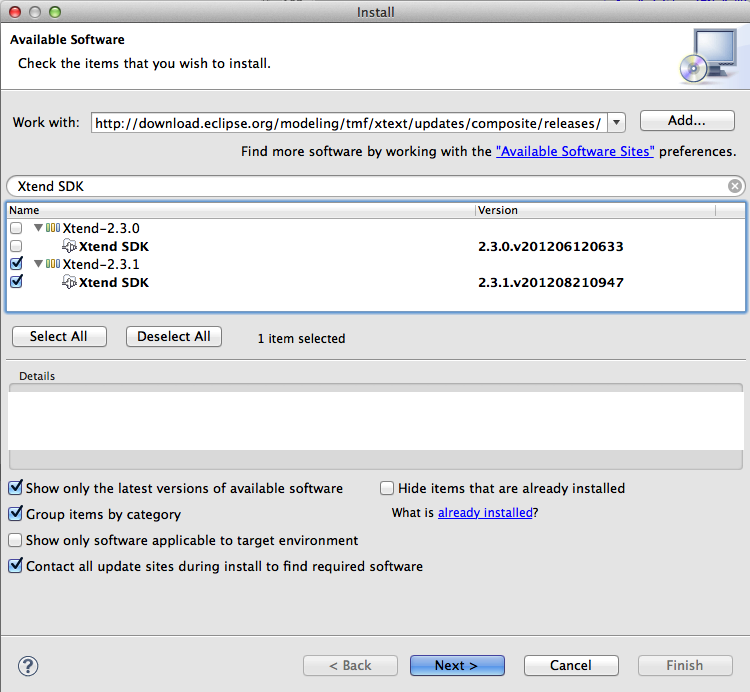
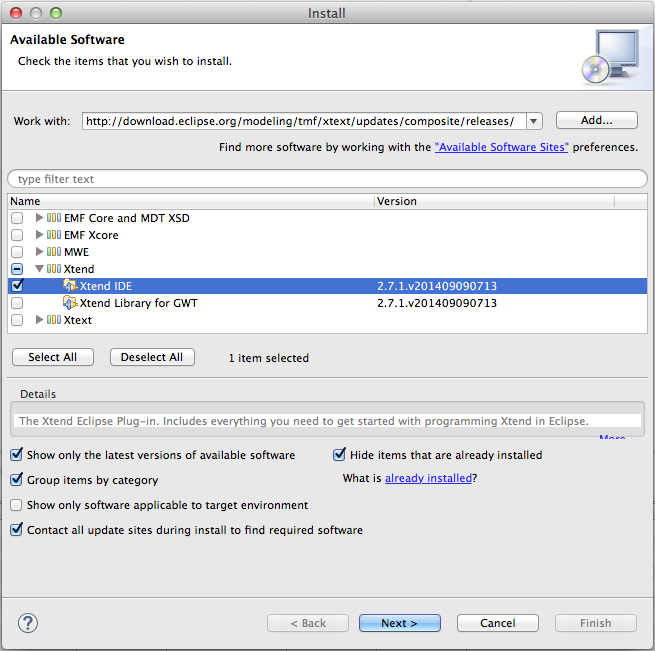
[website / doc] fixed outdated version references, updated installation screenshot

Changed region(s): [[0.0, 0.0, 1.0, 1.0]]

diff --git a/xtend.website.generator/website/documentation.html b/xtend.website.generator/website/documentation.html
@@ -3424,7 +3424,7 @@ node Parent{
 							of such patterns in a library and let the compiler do the heavy lifting for you.
 						</p>
 						<p>
-							An <strong>Active Annotation</strong> is just an annotation declared either in Java or Xtend, which is itself annotated with <a href="http://www.eclipse.org/xtend/api/2.7.0/org/eclipse/xtend/lib/macro/Active.html"><abbr title="org.eclipse.xtend.lib.macro.Active">@Active</abbr></a> <a href="https://github.com/eclipse/xtext/blob/v2.7.0/plugins/org.eclipse.xtend.lib/src/org/eclipse/xtend/lib/macro/Active.java">(src)</a>.
+							An <strong>Active Annotation</strong> is just an annotation declared either in Java or Xtend, which is itself annotated with <a href="http://www.eclipse.org/xtend/api/2.7.0/org/eclipse/xtend/lib/macro/Active.html"><abbr title="org.eclipse.xtend.lib.macro.Active">@Active</abbr></a> <a href="https://github.com/eclipse/xtext/blob/v2.7.0/plugins/org.eclipse.xtend.lib.macro/src/org/eclipse/xtend/lib/macro/Active.java">(src)</a>.
 							<code class="prettyprint lang-xtend">@Active</code> takes a type literal as a parameter pointing to the processor.
 						</p>
 						<p>
@@ -3451,10 +3451,10 @@ annotation Extract {}</pre>
 							This interfaces are:
 							</p>
 							<ul>
-								<li><a href="http://www.eclipse.org/xtend/api/2.7.0/org/eclipse/xtend/lib/macro/RegisterGlobalsParticipant.html"><abbr title="org.eclipse.xtend.lib.macro.RegisterGlobalsParticipant">RegisterGlobalsParticipant</abbr></a> <a href="https://github.com/eclipse/xtext/blob/v2.7.0/plugins/org.eclipse.xtend.lib/src/org/eclipse/xtend/lib/macro/RegisterGlobalsParticipant.java">(src)</a> The first call back. Only called to register type names when a global symbol table (i.e. index) is created. See <a href="#active_annotations_register_globals"></a></li>
-								<li><a href="http://www.eclipse.org/xtend/api/2.7.0/org/eclipse/xtend/lib/macro/TransformationParticipant.html"><abbr title="org.eclipse.xtend.lib.macro.TransformationParticipant">TransformationParticipant</abbr></a> <a href="https://github.com/eclipse/xtext/blob/v2.7.0/plugins/org.eclipse.xtend.lib/src/org/eclipse/xtend/lib/macro/TransformationParticipant.java">(src)</a> This callback is often the most useful, as it allows to alter the translated Java structure by e.g. adding, removing or altering members See <a href="#active_annotations_transformation_phase"></a></li>
-								<li><a href="http://www.eclipse.org/xtend/api/2.7.0/org/eclipse/xtend/lib/macro/ValidationParticipant.html"><abbr title="org.eclipse.xtend.lib.macro.ValidationParticipant">ValidationParticipant</abbr></a> <a href="https://github.com/eclipse/xtext/blob/v2.7.0/plugins/org.eclipse.xtend.lib/src/org/eclipse/xtend/lib/macro/ValidationParticipant.java">(src)</a> Although you can already do validation during transformation, you are only during this callback allowed to fully resolve any types. See <a href="#active_annotations_validation_phase"></a></li>
-								<li><a href="http://www.eclipse.org/xtend/api/2.7.0/org/eclipse/xtend/lib/macro/CodeGenerationParticipant.html"><abbr title="org.eclipse.xtend.lib.macro.CodeGenerationParticipant">CodeGenerationParticipant</abbr></a> <a href="https://github.com/eclipse/xtext/blob/v2.7.0/plugins/org.eclipse.xtend.lib/src/org/eclipse/xtend/lib/macro/CodeGenerationParticipant.java">(src)</a> If you want to generate some additional text, e.g. XML, this hook is for you. See <a href="#active_annotations_code_generation"></a></li>
+								<li><a href="http://www.eclipse.org/xtend/api/2.7.0/org/eclipse/xtend/lib/macro/RegisterGlobalsParticipant.html"><abbr title="org.eclipse.xtend.lib.macro.RegisterGlobalsParticipant">RegisterGlobalsParticipant</abbr></a> <a href="https://github.com/eclipse/xtext/blob/v2.7.0/plugins/org.eclipse.xtend.lib.macro/src/org/eclipse/xtend/lib/macro/RegisterGlobalsParticipant.java">(src)</a> The first call back. Only called to register type names when a global symbol table (i.e. index) is created. See <a href="#active_annotations_register_globals"></a></li>
+								<li><a href="http://www.eclipse.org/xtend/api/2.7.0/org/eclipse/xtend/lib/macro/TransformationParticipant.html"><abbr title="org.eclipse.xtend.lib.macro.TransformationParticipant">TransformationParticipant</abbr></a> <a href="https://github.com/eclipse/xtext/blob/v2.7.0/plugins/org.eclipse.xtend.lib.macro/src/org/eclipse/xtend/lib/macro/TransformationParticipant.java">(src)</a> This callback is often the most useful, as it allows to alter the translated Java structure by e.g. adding, removing or altering members See <a href="#active_annotations_transformation_phase"></a></li>
+								<li><a href="http://www.eclipse.org/xtend/api/2.7.0/org/eclipse/xtend/lib/macro/ValidationParticipant.html"><abbr title="org.eclipse.xtend.lib.macro.ValidationParticipant">ValidationParticipant</abbr></a> <a href="https://github.com/eclipse/xtext/blob/v2.7.0/plugins/org.eclipse.xtend.lib.macro/src/org/eclipse/xtend/lib/macro/ValidationParticipant.java">(src)</a> Although you can already do validation during transformation, you are only during this callback allowed to fully resolve any types. See <a href="#active_annotations_validation_phase"></a></li>
+								<li><a href="http://www.eclipse.org/xtend/api/2.7.0/org/eclipse/xtend/lib/macro/CodeGenerationParticipant.html"><abbr title="org.eclipse.xtend.lib.macro.CodeGenerationParticipant">CodeGenerationParticipant</abbr></a> <a href="https://github.com/eclipse/xtext/blob/v2.7.0/plugins/org.eclipse.xtend.lib.macro/src/org/eclipse/xtend/lib/macro/CodeGenerationParticipant.java">(src)</a> If you want to generate some additional text, e.g. XML, this hook is for you. See <a href="#active_annotations_code_generation"></a></li>
 							</ul>
 							<p>
 						</p>
@@ -3462,25 +3462,25 @@ annotation Extract {}</pre>
 							There are base classes that implment all callback interfaces. You should subclass one of those depending on your annotation target:
 							</p>
 							<ul>
-								<li><a href="http://www.eclipse.org/xtend/api/2.7.0/org/eclipse/xtend/lib/macro/AbstractClassProcessor.html"><abbr title="org.eclipse.xtend.lib.macro.AbstractClassProcessor">AbstractClassProcessor</abbr></a> <a href="https://github.com/eclipse/xtext/blob/v2.7.0/plugins/org.eclipse.xtend.lib/src/org/eclipse/xtend/lib/macro/AbstractClassProcessor.java">(src)</a> is a base class for class annotations</li>
-								<li><a href="http://www.eclipse.org/xtend/api/2.7.0/org/eclipse/xtend/lib/macro/AbstractInterfaceProcessor.html"><abbr title="org.eclipse.xtend.lib.macro.AbstractInterfaceProcessor">AbstractInterfaceProcessor</abbr></a> <a href="https://github.com/eclipse/xtext/blob/v2.7.0/plugins/org.eclipse.xtend.lib/src/org/eclipse/xtend/lib/macro/AbstractInterfaceProcessor.java">(src)</a> is a base class for interface annotations</li>
-								<li><a href="http://www.eclipse.org/xtend/api/2.7.0/org/eclipse/xtend/lib/macro/AbstractAnnotationTypeProcessor.html"><abbr title="org.eclipse.xtend.lib.macro.AbstractAnnotationTypeProcessor">AbstractAnnotationTypeProcessor</abbr></a> <a href="https://github.com/eclipse/xtext/blob/v2.7.0/plugins/org.eclipse.xtend.lib/src/org/eclipse/xtend/lib/macro/AbstractAnnotationTypeProcessor.java">(src)</a> is a base class for annotation type annotations</li>
-								<li><a href="http://www.eclipse.org/xtend/api/2.7.0/org/eclipse/xtend/lib/macro/AbstractEnumerationTypeProcessor.html"><abbr title="org.eclipse.xtend.lib.macro.AbstractEnumerationTypeProcessor">AbstractEnumerationTypeProcessor</abbr></a> <a href="https://github.com/eclipse/xtext/blob/v2.7.0/plugins/org.eclipse.xtend.lib/src/org/eclipse/xtend/lib/macro/AbstractEnumerationTypeProcessor.java">(src)</a> is a base class for enumeration type annotations</li>
-								<li><a href="http://www.eclipse.org/xtend/api/2.7.0/org/eclipse/xtend/lib/macro/AbstractMethodProcessor.html"><abbr title="org.eclipse.xtend.lib.macro.AbstractMethodProcessor">AbstractMethodProcessor</abbr></a> <a href="https://github.com/eclipse/xtext/blob/v2.7.0/plugins/org.eclipse.xtend.lib/src/org/eclipse/xtend/lib/macro/AbstractMethodProcessor.java">(src)</a> is a base class for method annotations</li>
-								<li><a href="http://www.eclipse.org/xtend/api/2.7.0/org/eclipse/xtend/lib/macro/AbstractFieldProcessor.html"><abbr title="org.eclipse.xtend.lib.macro.AbstractFieldProcessor">AbstractFieldProcessor</abbr></a> <a href="https://github.com/eclipse/xtext/blob/v2.7.0/plugins/org.eclipse.xtend.lib/src/org/eclipse/xtend/lib/macro/AbstractFieldProcessor.java">(src)</a> is a base class for field annotations</li>
+								<li><a href="http://www.eclipse.org/xtend/api/2.7.0/org/eclipse/xtend/lib/macro/AbstractClassProcessor.html"><abbr title="org.eclipse.xtend.lib.macro.AbstractClassProcessor">AbstractClassProcessor</abbr></a> <a href="https://github.com/eclipse/xtext/blob/v2.7.0/plugins/org.eclipse.xtend.lib.macro/src/org/eclipse/xtend/lib/macro/AbstractClassProcessor.java">(src)</a> is a base class for class annotations</li>
+								<li><a href="http://www.eclipse.org/xtend/api/2.7.0/org/eclipse/xtend/lib/macro/AbstractInterfaceProcessor.html"><abbr title="org.eclipse.xtend.lib.macro.AbstractInterfaceProcessor">AbstractInterfaceProcessor</abbr></a> <a href="https://github.com/eclipse/xtext/blob/v2.7.0/plugins/org.eclipse.xtend.lib.macro/src/org/eclipse/xtend/lib/macro/AbstractInterfaceProcessor.java">(src)</a> is a base class for interface annotations</li>
+								<li><a href="http://www.eclipse.org/xtend/api/2.7.0/org/eclipse/xtend/lib/macro/AbstractAnnotationTypeProcessor.html"><abbr title="org.eclipse.xtend.lib.macro.AbstractAnnotationTypeProcessor">AbstractAnnotationTypeProcessor</abbr></a> <a href="https://github.com/eclipse/xtext/blob/v2.7.0/plugins/org.eclipse.xtend.lib.macro/src/org/eclipse/xtend/lib/macro/AbstractAnnotationTypeProcessor.java">(src)</a> is a base class for annotation type annotations</li>
+								<li><a href="http://www.eclipse.org/xtend/api/2.7.0/org/eclipse/xtend/lib/macro/AbstractEnumerationTypeProcessor.html"><abbr title="org.eclipse.xtend.lib.macro.AbstractEnumerationTypeProcessor">AbstractEnumerationTypeProcessor</abbr></a> <a href="https://github.com/eclipse/xtext/blob/v2.7.0/plugins/org.eclipse.xtend.lib.macro/src/org/eclipse/xtend/lib/macro/AbstractEnumerationTypeProcessor.java">(src)</a> is a base class for enumeration type annotations</li>
+								<li><a href="http://www.eclipse.org/xtend/api/2.7.0/org/eclipse/xtend/lib/macro/AbstractMethodProcessor.html"><abbr title="org.eclipse.xtend.lib.macro.AbstractMethodProcessor">AbstractMethodProcessor</abbr></a> <a href="https://github.com/eclipse/xtext/blob/v2.7.0/plugins/org.eclipse.xtend.lib.macro/src/org/eclipse/xtend/lib/macro/AbstractMethodProcessor.java">(src)</a> is a base class for method annotations</li>
+								<li><a href="http://www.eclipse.org/xtend/api/2.7.0/org/eclipse/xtend/lib/macro/AbstractFieldProcessor.html"><abbr title="org.eclipse.xtend.lib.macro.AbstractFieldProcessor">AbstractFieldProcessor</abbr></a> <a href="https://github.com/eclipse/xtext/blob/v2.7.0/plugins/org.eclipse.xtend.lib.macro/src/org/eclipse/xtend/lib/macro/AbstractFieldProcessor.java">(src)</a> is a base class for field annotations</li>
 							</ul>
 							<p>
 						</p>
 						<p>
 							If you want to annotate other elements such as parameters or constructors, you should have
 							a look at the bases classes and adapt their implementation (basically the type parameter) accordingly.
-							It is also possible to have a very generic processor by using <a href="http://www.eclipse.org/xtend/api/2.7.0/org/eclipse/xtend/lib/macro/declaration/Declaration.html"><abbr title="org.eclipse.xtend.lib.macro.declaration.Declaration">Declaration</abbr></a> <a href="https://github.com/eclipse/xtext/blob/v2.7.0/plugins/org.eclipse.xtend.lib/src/org/eclipse/xtend/lib/macro/declaration/Declaration.java">(src)</a>, the super type of all declared elements.
+							It is also possible to have a very generic processor by using <a href="http://www.eclipse.org/xtend/api/2.7.0/org/eclipse/xtend/lib/macro/declaration/Declaration.html"><abbr title="org.eclipse.xtend.lib.macro.declaration.Declaration">Declaration</abbr></a> <a href="https://github.com/eclipse/xtext/blob/v2.7.0/plugins/org.eclipse.xtend.lib.macro/src/org/eclipse/xtend/lib/macro/declaration/Declaration.java">(src)</a>, the super type of all declared elements.
 						</p>
 						<!-- subsection -->
 						<section id="active_annotations_register_globals" style="padding-top: 68px; margin-top: -68px;">
 						<h3>Phase 1: Register Globals</h3>
 						<p>
-							The first phase in the lifecycle of the compiler is about indexing the types as globally available symbols. By implementing a <a href="http://www.eclipse.org/xtend/api/2.7.0/org/eclipse/xtend/lib/macro/RegisterGlobalsParticipant.html"><abbr title="org.eclipse.xtend.lib.macro.RegisterGlobalsParticipant">RegisterGlobalsParticipant</abbr></a> <a href="https://github.com/eclipse/xtext/blob/v2.7.0/plugins/org.eclipse.xtend.lib/src/org/eclipse/xtend/lib/macro/RegisterGlobalsParticipant.java">(src)</a>
+							The first phase in the lifecycle of the compiler is about indexing the types as globally available symbols. By implementing a <a href="http://www.eclipse.org/xtend/api/2.7.0/org/eclipse/xtend/lib/macro/RegisterGlobalsParticipant.html"><abbr title="org.eclipse.xtend.lib.macro.RegisterGlobalsParticipant">RegisterGlobalsParticipant</abbr></a> <a href="https://github.com/eclipse/xtext/blob/v2.7.0/plugins/org.eclipse.xtend.lib.macro/src/org/eclipse/xtend/lib/macro/RegisterGlobalsParticipant.java">(src)</a>
 							you have the chance to create and register new Java types during this phase. It's important
 							to do this in a first phase so later on the compiler can find and access these types.
 						</p>
@@ -3505,13 +3505,13 @@ class ExtractProcessor extends AbstractClassProcessor {
 							<p>
 						</p>
 						<p>
-							The <a href="http://www.eclipse.org/xtend/api/2.7.0/org/eclipse/xtend/lib/macro/RegisterGlobalsContext.html"><abbr title="org.eclipse.xtend.lib.macro.RegisterGlobalsContext">RegisterGlobalsContext</abbr></a> <a href="https://github.com/eclipse/xtext/blob/v2.7.0/plugins/org.eclipse.xtend.lib/src/org/eclipse/xtend/lib/macro/RegisterGlobalsContext.java">(src)</a> provides all the services that are available during 
+							The <a href="http://www.eclipse.org/xtend/api/2.7.0/org/eclipse/xtend/lib/macro/RegisterGlobalsContext.html"><abbr title="org.eclipse.xtend.lib.macro.RegisterGlobalsContext">RegisterGlobalsContext</abbr></a> <a href="https://github.com/eclipse/xtext/blob/v2.7.0/plugins/org.eclipse.xtend.lib.macro/src/org/eclipse/xtend/lib/macro/RegisterGlobalsContext.java">(src)</a> provides all the services that are available during 
 							this compilation step. It is passed into the method <code class="prettyprint lang-xtend">doRegisterGlobals()</code> along with a read-only representation of the annotated
 							source elements.
 							The AbstractClassProcessor in this example is invoked for all classes that are annotated with <code class="prettyprint lang-xtend">@Extract</code>.
 						</p>
 						<p>
-							The compiler calls <a href="http://www.eclipse.org/xtend/api/2.7.0/org/eclipse/xtend/lib/macro/RegisterGlobalsParticipant.html"><abbr title="org.eclipse.xtend.lib.macro.RegisterGlobalsParticipant">RegisterGlobalsParticipant</abbr></a> <a href="https://github.com/eclipse/xtext/blob/v2.7.0/plugins/org.eclipse.xtend.lib/src/org/eclipse/xtend/lib/macro/RegisterGlobalsParticipant.java">(src)</a> once per compilation unit
+							The compiler calls <a href="http://www.eclipse.org/xtend/api/2.7.0/org/eclipse/xtend/lib/macro/RegisterGlobalsParticipant.html"><abbr title="org.eclipse.xtend.lib.macro.RegisterGlobalsParticipant">RegisterGlobalsParticipant</abbr></a> <a href="https://github.com/eclipse/xtext/blob/v2.7.0/plugins/org.eclipse.xtend.lib.macro/src/org/eclipse/xtend/lib/macro/RegisterGlobalsParticipant.java">(src)</a> once per compilation unit
 							and provides access to all elements which are annotated with the <strong>active annotation</strong> this processor
 							is registered for. Therefore the <code class="prettyprint lang-xtend">ExtractProcessor</code> is invoked with a list of all classes that are defined in the same Xtend file for
 							all the files that are being compiled.
@@ -3522,9 +3522,9 @@ class ExtractProcessor extends AbstractClassProcessor {
 						<h3>Phase 2: Transformation</h3>
 						<p>
 							In the second phase developers can modify the compiled Java classes and Java code. Annotation processors that implement
-							<a href="http://www.eclipse.org/xtend/api/2.7.0/org/eclipse/xtend/lib/macro/TransformationParticipant.html"><abbr title="org.eclipse.xtend.lib.macro.TransformationParticipant">TransformationParticipant</abbr></a> <a href="https://github.com/eclipse/xtext/blob/v2.7.0/plugins/org.eclipse.xtend.lib/src/org/eclipse/xtend/lib/macro/TransformationParticipant.java">(src)</a> participate in this compile step. Similar to the 
-							<a href="http://www.eclipse.org/xtend/api/2.7.0/org/eclipse/xtend/lib/macro/RegisterGlobalsParticipant.html"><abbr title="org.eclipse.xtend.lib.macro.RegisterGlobalsParticipant">RegisterGlobalsParticipant</abbr></a> <a href="https://github.com/eclipse/xtext/blob/v2.7.0/plugins/org.eclipse.xtend.lib/src/org/eclipse/xtend/lib/macro/RegisterGlobalsParticipant.java">(src)</a> interface the compiler provides two
-							arguments: The list of annotated translated and now mutable Java elements and a <a href="http://www.eclipse.org/xtend/api/2.7.0/org/eclipse/xtend/lib/macro/TransformationContext.html"><abbr title="org.eclipse.xtend.lib.macro.TransformationContext">TransformationContext</abbr></a> <a href="https://github.com/eclipse/xtext/blob/v2.7.0/plugins/org.eclipse.xtend.lib/src/org/eclipse/xtend/lib/macro/TransformationContext.java">(src)</a>. The context provides services
+							<a href="http://www.eclipse.org/xtend/api/2.7.0/org/eclipse/xtend/lib/macro/TransformationParticipant.html"><abbr title="org.eclipse.xtend.lib.macro.TransformationParticipant">TransformationParticipant</abbr></a> <a href="https://github.com/eclipse/xtext/blob/v2.7.0/plugins/org.eclipse.xtend.lib.macro/src/org/eclipse/xtend/lib/macro/TransformationParticipant.java">(src)</a> participate in this compile step. Similar to the 
+							<a href="http://www.eclipse.org/xtend/api/2.7.0/org/eclipse/xtend/lib/macro/RegisterGlobalsParticipant.html"><abbr title="org.eclipse.xtend.lib.macro.RegisterGlobalsParticipant">RegisterGlobalsParticipant</abbr></a> <a href="https://github.com/eclipse/xtext/blob/v2.7.0/plugins/org.eclipse.xtend.lib.macro/src/org/eclipse/xtend/lib/macro/RegisterGlobalsParticipant.java">(src)</a> interface the compiler provides two
+							arguments: The list of annotated translated and now mutable Java elements and a <a href="http://www.eclipse.org/xtend/api/2.7.0/org/eclipse/xtend/lib/macro/TransformationContext.html"><abbr title="org.eclipse.xtend.lib.macro.TransformationContext">TransformationContext</abbr></a> <a href="https://github.com/eclipse/xtext/blob/v2.7.0/plugins/org.eclipse.xtend.lib.macro/src/org/eclipse/xtend/lib/macro/TransformationContext.java">(src)</a>. The context provides services
 							that are specific for this second step.
 						</p>
 						<p>
@@ -3573,7 +3573,7 @@ class ExtractProcessor extends AbstractClassProcessor {
 						</p>
 						<p>
 							In the first line, <code class="prettyprint lang-xtend">findInterface</code> retrieves the interface which was registered during the registration of global symbols in the first phase:
-							The method is defined in <a href="http://www.eclipse.org/xtend/api/2.7.0/org/eclipse/xtend/lib/macro/TransformationContext.html"><abbr title="org.eclipse.xtend.lib.macro.TransformationContext">TransformationContext</abbr></a> <a href="https://github.com/eclipse/xtext/blob/v2.7.0/plugins/org.eclipse.xtend.lib/src/org/eclipse/xtend/lib/macro/TransformationContext.java">(src)</a>
+							The method is defined in <a href="http://www.eclipse.org/xtend/api/2.7.0/org/eclipse/xtend/lib/macro/TransformationContext.html"><abbr title="org.eclipse.xtend.lib.macro.TransformationContext">TransformationContext</abbr></a> <a href="https://github.com/eclipse/xtext/blob/v2.7.0/plugins/org.eclipse.xtend.lib.macro/src/org/eclipse/xtend/lib/macro/TransformationContext.java">(src)</a>
 							which is used as an <a href="#Extension_Provider">extension provider</a>.
 						</p>
 						<p>
@@ -3591,9 +3591,9 @@ annotatedClass.implementedInterfaces = annotatedClass.implementedInterfaces + #[
 							pointing to the freshly created interface.
 						</p>
 						<p>
-							A <a href="http://www.eclipse.org/xtend/api/2.7.0/org/eclipse/xtend/lib/macro/declaration/TypeReference.html"><abbr title="org.eclipse.xtend.lib.macro.declaration.TypeReference">TypeReference</abbr></a> <a href="https://github.com/eclipse/xtext/blob/v2.7.0/plugins/org.eclipse.xtend.lib/src/org/eclipse/xtend/lib/macro/declaration/TypeReference.java">(src)</a> can be created using one of the various
-							methods from <a href="http://www.eclipse.org/xtend/api/2.7.0/org/eclipse/xtend/lib/macro/services/TypeReferenceProvider.html"><abbr title="org.eclipse.xtend.lib.macro.services.TypeReferenceProvider">TypeReferenceProvider</abbr></a> <a href="https://github.com/eclipse/xtext/blob/v2.7.0/plugins/org.eclipse.xtend.lib/src/org/eclipse/xtend/lib/macro/services/TypeReferenceProvider.java">(src)</a> which is a super type
-							of <a href="http://www.eclipse.org/xtend/api/2.7.0/org/eclipse/xtend/lib/macro/TransformationContext.html"><abbr title="org.eclipse.xtend.lib.macro.TransformationContext">TransformationContext</abbr></a> <a href="https://github.com/eclipse/xtext/blob/v2.7.0/plugins/org.eclipse.xtend.lib/src/org/eclipse/xtend/lib/macro/TransformationContext.java">(src)</a>. These utilities are available as extensions, too.
+							A <a href="http://www.eclipse.org/xtend/api/2.7.0/org/eclipse/xtend/lib/macro/declaration/TypeReference.html"><abbr title="org.eclipse.xtend.lib.macro.declaration.TypeReference">TypeReference</abbr></a> <a href="https://github.com/eclipse/xtext/blob/v2.7.0/plugins/org.eclipse.xtend.lib.macro/src/org/eclipse/xtend/lib/macro/declaration/TypeReference.java">(src)</a> can be created using one of the various
+							methods from <a href="http://www.eclipse.org/xtend/api/2.7.0/org/eclipse/xtend/lib/macro/services/TypeReferenceProvider.html"><abbr title="org.eclipse.xtend.lib.macro.services.TypeReferenceProvider">TypeReferenceProvider</abbr></a> <a href="https://github.com/eclipse/xtext/blob/v2.7.0/plugins/org.eclipse.xtend.lib.macro/src/org/eclipse/xtend/lib/macro/services/TypeReferenceProvider.java">(src)</a> which is a super type
+							of <a href="http://www.eclipse.org/xtend/api/2.7.0/org/eclipse/xtend/lib/macro/TransformationContext.html"><abbr title="org.eclipse.xtend.lib.macro.TransformationContext">TransformationContext</abbr></a> <a href="https://github.com/eclipse/xtext/blob/v2.7.0/plugins/org.eclipse.xtend.lib.macro/src/org/eclipse/xtend/lib/macro/TransformationContext.java">(src)</a>. These utilities are available as extensions, too.
 						</p>
 						</section>
 						<!-- subsection -->
@@ -3610,7 +3610,7 @@ annotatedClass.implementedInterfaces = annotatedClass.implementedInterfaces + #[
 						<p>
 							The last phase in the lifecycle of the compiler lets you participate in writing and updating the files. In the IDE this phase is only executed on save
 							, while the previous two get executed after minor edits in the editor as well. In order to participate your processor needs to implement
-							<a href="http://www.eclipse.org/xtend/api/2.7.0/org/eclipse/xtend/lib/macro/CodeGenerationParticipant.html"><abbr title="org.eclipse.xtend.lib.macro.CodeGenerationParticipant">CodeGenerationParticipant</abbr></a> <a href="https://github.com/eclipse/xtext/blob/v2.7.0/plugins/org.eclipse.xtend.lib/src/org/eclipse/xtend/lib/macro/CodeGenerationParticipant.java">(src)</a>. The extract interface example doesn't make use of this hook, but another example 
+							<a href="http://www.eclipse.org/xtend/api/2.7.0/org/eclipse/xtend/lib/macro/CodeGenerationParticipant.html"><abbr title="org.eclipse.xtend.lib.macro.CodeGenerationParticipant">CodeGenerationParticipant</abbr></a> <a href="https://github.com/eclipse/xtext/blob/v2.7.0/plugins/org.eclipse.xtend.lib.macro/src/org/eclipse/xtend/lib/macro/CodeGenerationParticipant.java">(src)</a>. The extract interface example doesn't make use of this hook, but another example 
 							 for internationalization which is also included, generates a *.properties file, like this:
 						</p>
 						<p>
@@ -3636,7 +3636,7 @@ class ExternalizedProcessor extends AbstractClassProcessor {
 							<p>
 						</p>
 						<p>
-							The <a href="http://www.eclipse.org/xtend/api/2.7.0/org/eclipse/xtend/lib/macro/CodeGenerationContext.html"><abbr title="org.eclipse.xtend.lib.macro.CodeGenerationContext">CodeGenerationContext</abbr></a> <a href="https://github.com/eclipse/xtext/blob/v2.7.0/plugins/org.eclipse.xtend.lib/src/org/eclipse/xtend/lib/macro/CodeGenerationContext.java">(src)</a> provides all the services that are available during 
+							The <a href="http://www.eclipse.org/xtend/api/2.7.0/org/eclipse/xtend/lib/macro/CodeGenerationContext.html"><abbr title="org.eclipse.xtend.lib.macro.CodeGenerationContext">CodeGenerationContext</abbr></a> <a href="https://github.com/eclipse/xtext/blob/v2.7.0/plugins/org.eclipse.xtend.lib.macro/src/org/eclipse/xtend/lib/macro/CodeGenerationContext.java">(src)</a> provides all the services that are available during 
 							this phase. Have a look at the Java doc for more details.
 						</p>
 						</section>
@@ -3646,7 +3646,7 @@ class ExternalizedProcessor extends AbstractClassProcessor {
 						<h2 style="padding-top: 15px;">On Expressions and Statements</h2>
 						<p>
 							Most of the generated Java code is represented in the form of in-memory elements. Basically all the structural elements
-							are represented as a dedicated <a href="http://www.eclipse.org/xtend/api/2.7.0/org/eclipse/xtend/lib/macro/declaration/Element.html"><abbr title="org.eclipse.xtend.lib.macro.declaration.Element">Element</abbr></a> <a href="https://github.com/eclipse/xtext/blob/v2.7.0/plugins/org.eclipse.xtend.lib/src/org/eclipse/xtend/lib/macro/declaration/Element.java">(src)</a>.
+							are represented as a dedicated <a href="http://www.eclipse.org/xtend/api/2.7.0/org/eclipse/xtend/lib/macro/declaration/Element.html"><abbr title="org.eclipse.xtend.lib.macro.declaration.Element">Element</abbr></a> <a href="https://github.com/eclipse/xtext/blob/v2.7.0/plugins/org.eclipse.xtend.lib.macro/src/org/eclipse/xtend/lib/macro/declaration/Element.java">(src)</a>.
 							If you want to generate the body of a method or the initializer of a field, you have two options.
 						</p>
 						<!-- subsection -->
@@ -3734,7 +3734,7 @@ override doTransform(MutableFieldDeclaration field, extension TransformationCont
 							cause trouble with primitive values. A validation for that case would be sensible, too. In order to guide the user dedicated compilation errors should be raised if these constrains are violated.
 						</p>
 						<p>
-							The <a href="http://www.eclipse.org/xtend/api/2.7.0/org/eclipse/xtend/lib/macro/TransformationContext.html"><abbr title="org.eclipse.xtend.lib.macro.TransformationContext">TransformationContext</abbr></a> <a href="https://github.com/eclipse/xtext/blob/v2.7.0/plugins/org.eclipse.xtend.lib/src/org/eclipse/xtend/lib/macro/TransformationContext.java">(src)</a> inherits methods for exactly that purpose from the <a href="http://www.eclipse.org/xtend/api/2.7.0/org/eclipse/xtend/lib/macro/services/ProblemSupport.html"><abbr title="org.eclipse.xtend.lib.macro.services.ProblemSupport">ProblemSupport</abbr></a> <a href="https://github.com/eclipse/xtext/blob/v2.7.0/plugins/org.eclipse.xtend.lib/src/org/eclipse/xtend/lib/macro/services/ProblemSupport.java">(src)</a> service.
+							The <a href="http://www.eclipse.org/xtend/api/2.7.0/org/eclipse/xtend/lib/macro/TransformationContext.html"><abbr title="org.eclipse.xtend.lib.macro.TransformationContext">TransformationContext</abbr></a> <a href="https://github.com/eclipse/xtext/blob/v2.7.0/plugins/org.eclipse.xtend.lib.macro/src/org/eclipse/xtend/lib/macro/TransformationContext.java">(src)</a> inherits methods for exactly that purpose from the <a href="http://www.eclipse.org/xtend/api/2.7.0/org/eclipse/xtend/lib/macro/services/ProblemSupport.html"><abbr title="org.eclipse.xtend.lib.macro.services.ProblemSupport">ProblemSupport</abbr></a> <a href="https://github.com/eclipse/xtext/blob/v2.7.0/plugins/org.eclipse.xtend.lib.macro/src/org/eclipse/xtend/lib/macro/services/ProblemSupport.java">(src)</a> service.
 						</p>
 						<p>
 							Since the <code class="prettyprint lang-xtend">context</code> is declared as an <a href="#Extension_Provider">extension provider</a>, those methods can be used as extensions and it allows to implement
@@ -3783,7 +3783,7 @@ override doTransform(MutableFieldDeclaration field, extension TransformationCont
 &lt;dependency&gt;
   &lt;groupId&gt;org.eclipse.xtend&lt;/groupId&gt;
   &lt;artifactId&gt;org.eclipse.xtend.core&lt;/artifactId&gt;
-  &lt;version&gt;2.5.0&lt;/version&gt;
+  &lt;version&gt;2.7.1&lt;/version&gt;
   &lt;scope&gt;test&lt;/scope&gt;
 &lt;/dependency&gt;</pre>
 							<p>

diff --git a/xtend.website.generator/website/download.html b/xtend.website.generator/website/download.html
@@ -264,7 +264,7 @@ mvn archetype:generate -DarchetypeGroupId=org.eclipse.xtend -DarchetypeArtifactI
 &lt;plugin&gt;
   &lt;groupId&gt;org.eclipse.xtend&lt;/groupId&gt;
   &lt;artifactId&gt;xtend-maven-plugin&lt;/artifactId&gt;
-  &lt;version&gt;2.6.0&lt;/version&gt;
+  &lt;version&gt;2.7.0&lt;/version&gt;
   &lt;executions&gt;
     &lt;execution&gt;
       &lt;goals&gt;
@@ -299,7 +299,7 @@ mvn archetype:generate -DarchetypeGroupId=org.eclipse.xtend -DarchetypeArtifactI
 					<section>
 					<h2 style="padding-top: 15px;">Getting the runtime library via Maven</h2>
 					<p>
-						The <a href="api/2.6.0/index.html">runtime library</a> is available from Maven Central, too: <a href="http://repo.maven.apache.org/maven2">http://repo.maven.apache.org/maven2</a>.
+						The <a href="api/2.7.0/index.html">runtime library</a> is available from Maven Central, too: <a href="http://repo.maven.apache.org/maven2">http://repo.maven.apache.org/maven2</a>.
 					</p>
 					The XML for the dependency is :
 					</p>
@@ -309,7 +309,7 @@ mvn archetype:generate -DarchetypeGroupId=org.eclipse.xtend -DarchetypeArtifactI
 &lt;dependency&gt;
   &lt;groupId&gt;org.eclipse.xtend&lt;/groupId&gt;
   &lt;artifactId&gt;org.eclipse.xtend.lib&lt;/artifactId&gt;
-  &lt;version&gt;2.6.0&lt;/version&gt;
+  &lt;version&gt;2.7.0&lt;/version&gt;
 &lt;/dependency&gt;</pre>
 						<p>
 					</p>
